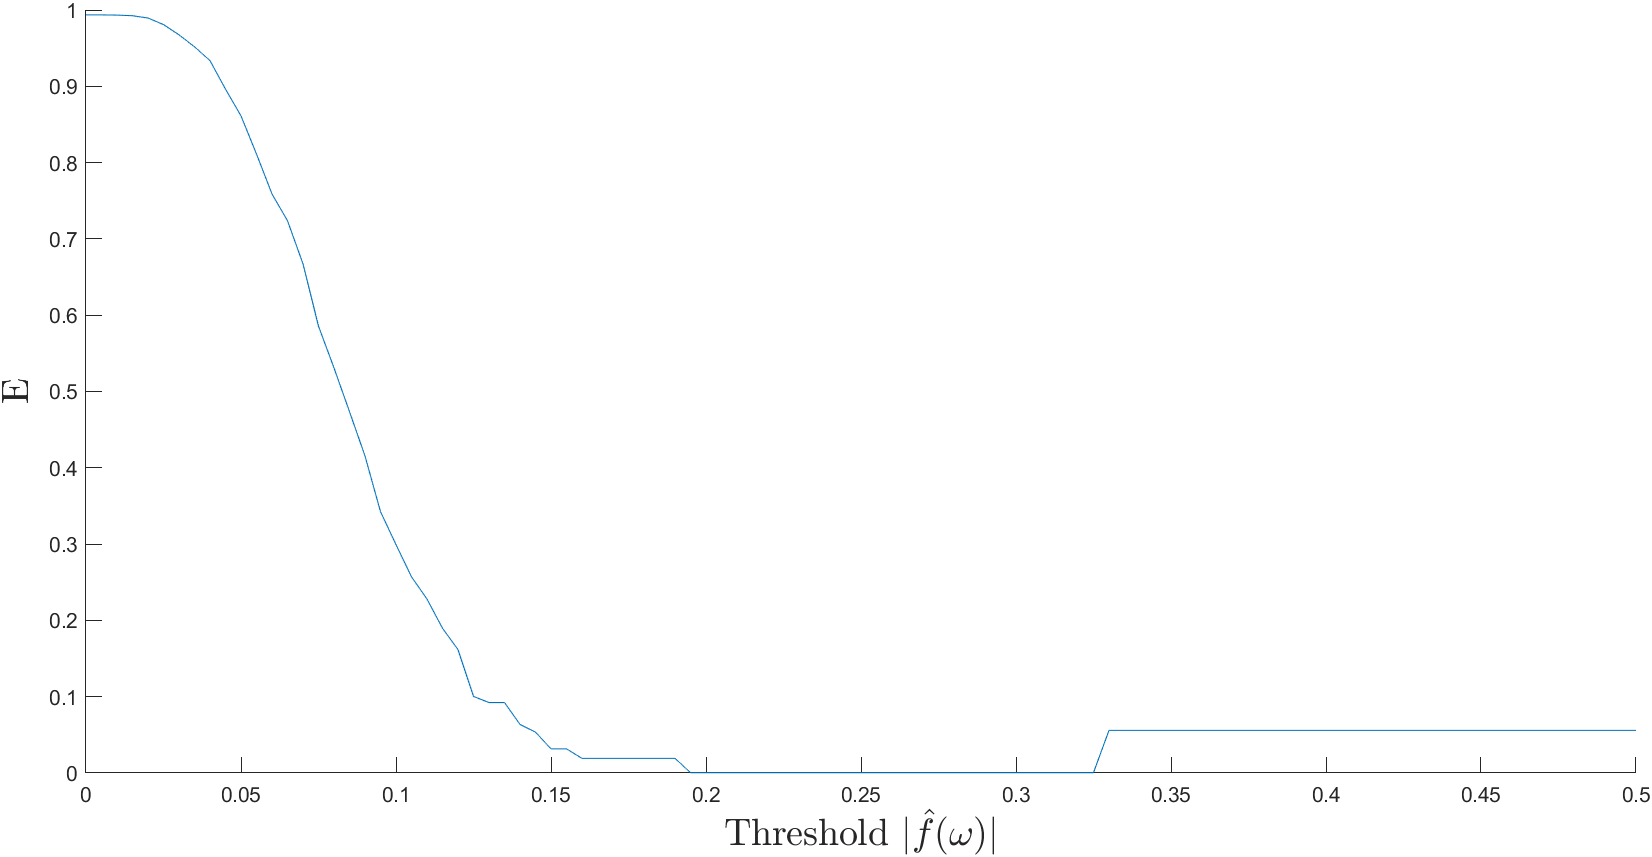
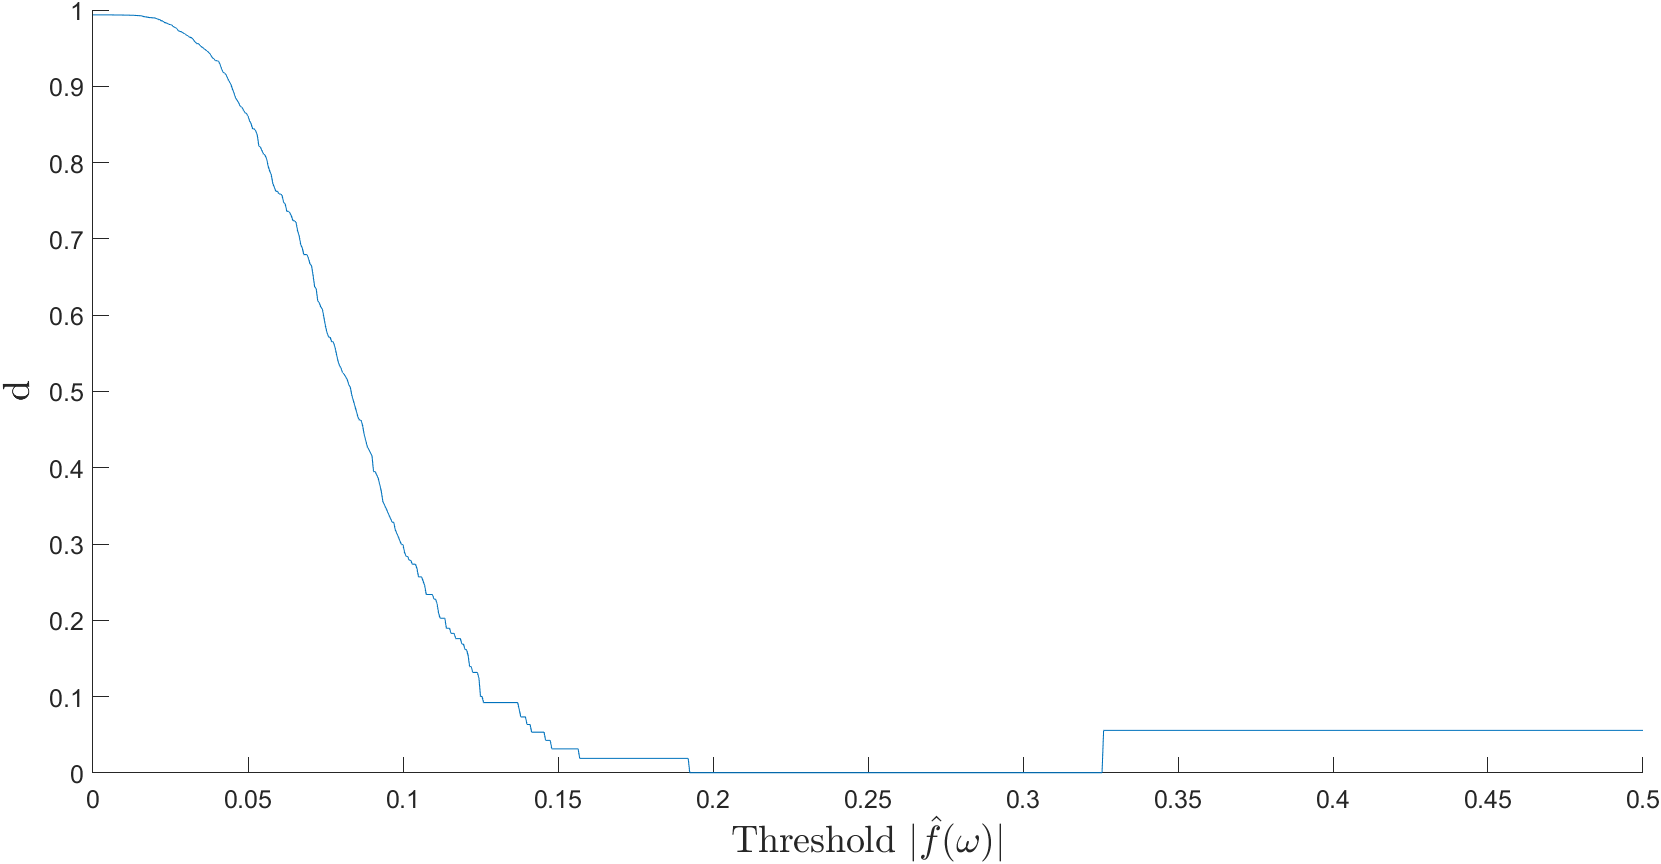
Kuvien korjailuu

diff --git a/main.m b/main.m
@@ -7,6 +7,7 @@ X = data1_X;
 c = fft(X)
 plot_amplitude_spectrum(c);
 [X_f,c_new] = filterNoiseFrequencyThreshold(X,50);
+
 figure
 plot_amplitude_spectrum(c_new);
 figure
@@ -15,7 +16,7 @@ hold on
 plot(data1_f)
 hold off
 
-1/1000^2*sum((abs(c)-abs(c_new)).^2)
+1/1000^2*sum((abs(c)-abs(c_new))).^2
 
 
 
@@ -25,17 +26,45 @@ close all
 clc
 clearvars
 load data.mat
+fontsize = 18;
+tick_size = 12;
 X = data2_X;
 c = fft(X);
-plot_amplitude_spectrum(c);
-[X_f,c_new] = filterNoiseFrequencyThreshold(X,8);
+plot_amplitude_spectrum(c,1000);
+hold on
+plot([7,7],[0,2],'r','LineWidth',2)
+ax = gca;
+ax.FontSize = tick_size;
+xlabel("$$\omega$$(Hz)","interpreter","latex","FontSize",fontsize)
+ylabel("$$|\hat{f}(\omega)|$$","Interpreter","latex","FontSize",fontsize)
+hold off
+[X_f,c_new] = filterNoiseFrequencyThreshold(X,6);
 figure
 plot_amplitude_spectrum(c_new);
 figure
-plot(X_f)
+t = data2_t
+plot(t,X_f)
 hold on
-plot(data2_f)
+plot(t,data2_f)
 hold off
+ax = gca;
+ax.FontSize = tick_size;
+xlabel("$$t(s)$$","Interpreter","latex","FontSize",fontsize)
+ylabel("Amplitude","Interpreter","latex","FontSize",fontsize)
+
+figure
+
+figure
+plot(t,X)
+hold on
+plot(t,X_f,'r','LineWidth',2)
+hold off
+ax = gca;
+ax.FontSize = tick_size;
+xlabel("$$t(s)$$","Interpreter","latex","FontSize",fontsize)
+ylabel("Amplitude","Interpreter","latex","FontSize",fontsize)
+
+
 
 1/1000^2*sum((abs(c)-abs(c_new)).^2)
 
@@ -48,13 +77,17 @@ clc
 clearvars
 load data.mat
 fontsize = 18
+tick_size = 12
 % DATA 1
 X = data1_X;
 t = data1_t
 c = fft(X);
 plot_amplitude_spectrum(c,1000);
-xlabel("$$\omega(Hz)$$","interpreter","latex","FontSize",fontsize)
+ax = gca;
+ax.FontSize = tick_size;
+xlabel("$$\omega$$(Hz)","interpreter","latex","FontSize",fontsize)
 ylabel("$$|\hat{f}(\omega)|$$","Interpreter","latex","FontSize",fontsize)
+
 hold on 
 plot([0,500],[0.20,0.20],'r','LineWidth',2)
 hold off
@@ -68,8 +101,11 @@ plot(t,X_f,'LineWidth',2)
 
 hold off
 
+ax = gca;
+ax.FontSize = tick_size;
 xlabel("$$t(s)$$","Interpreter","latex","FontSize",fontsize)
 ylabel("Amplitude","Interpreter","latex","FontSize",fontsize)
+
 
 
 figure
@@ -77,8 +113,11 @@ plot(t,data1_f,'LineWidth',0.5)
 hold on
 plot(t,X_f,'r','LineWidth',0.5)
 hold off
+ax = gca;
+ax.FontSize = tick_size;
 xlabel("$$t(s)$$","Interpreter","latex","FontSize",fontsize)
 ylabel("Amplitude","Interpreter","latex","FontSize",fontsize)
+
 
 c_orig = fft(data1_f);
 d1 = 1/1000^2*sum((abs(c_orig)-abs(c_new)).^2)
@@ -114,18 +153,36 @@ clc
 clearvars
 load data.mat
 
+fontsize = 18;
+tick_size = 12;
+
 X = data2_X;
 t = data2_t
 c = fft(X);
 plot_amplitude_spectrum(c);
-[X_f,c_new] = filterNoiseScale(X,0.010);
+[X_f,c_new] = filterNoiseScale(X,0.011);
 figure
 plot_amplitude_spectrum(c_new);
 figure
-plot(X_f)
+t = data2_t
+plot(t,X_f)
 hold on
-plot(data2_f)
+plot(t,data2_f)
 hold off
+ax = gca;
+ax.FontSize = tick_size;
+xlabel("$$t(s)$$","Interpreter","latex","FontSize",fontsize)
+ylabel("Amplitude","Interpreter","latex","FontSize",fontsize)
+
+figure
+plot(t,X)
+hold on
+plot(t,X_f,'r','LineWidth',2)
+hold off
+ax = gca;
+ax.FontSize = tick_size;
+xlabel("$$t(s)$$","Interpreter","latex","FontSize",fontsize)
+ylabel("Amplitude","Interpreter","latex","FontSize",fontsize)
 
 c_orig = fft(data2_f);
 d2 = 1/1000^2*sum((abs(c_orig)-abs(c_new)).^2)

diff --git a/DifferentN.m b/DifferentN.m
@@ -3,11 +3,11 @@ close all
 clc
 clearvars
 load data.mat
+tick_size = 12
 
-
-X = data2_X;
+X = data1_X;
 c = fft(X)
-c_orig = fft(data2_f);
+c_orig = fft(data1_f);
 
 threshold = [0:0.001:1];
 eT = [];
@@ -20,17 +20,21 @@ for ii = [1:length(threshold)]
 end
 
 
-plot(threshold,abs(1-eT))
+%plot(threshold,abs(1-eT))
 hold on
 plot(threshold./2,diff)
 hold off
+ax = gca;
+ax.FontSize = tick_size;
 xlabel("Threshold $|\hat{f}(\omega)|$","interpreter","latex","FontSize",18)
-ylabel("E","interpreter","latex","FontSize",18)
+ylabel("d","interpreter","latex","FontSize",18)
 %% Frequency threshold
 close all
 clc
 clearvars
 load data.mat
+fontsize = 18
+tick_size = 12
 
 
 X = data2_X;
@@ -47,10 +51,14 @@ for ii = N
    diff(ii) = 1/1000^2*sum((abs(c_orig)-abs(c_new)).^2);
 end
 
-plot(N,abs(1-eT))
+%plot(N,abs(1-eT))
 hold on
-plot(N,diff)
+plot([1:1:100],diff)
 hold off
+ax = gca;
+ax.FontSize = tick_size;
+xlabel("Frequency cut off (Hz)","Interpreter","latex","FontSize",fontsize)
+ylabel("d","Interpreter","latex","FontSize",fontsize)
 
 
 %% Scale method
@@ -59,7 +67,8 @@ close all
 clc
 clearvars
 load data.mat
-
+tick_size = 12
+fontsize = 18
 
 X = data2_X;
 c = fft(X)
@@ -75,8 +84,13 @@ for ii = [1:length(omega)]
    diff(ii) = 1/1000^2*sum((abs(c_orig)-abs(c_new)).^2);
 end
 
-plot(omega,abs(1-eT))
+%(omega,abs(1-eT))
 hold on
 plot(omega,diff)
 hold off
+ax = gca;
+ax.FontSize = tick_size;
+xlabel("$$\gamma$$","Interpreter","latex","FontSize",fontsize)
+ylabel("d","Interpreter","latex","FontSize",fontsize)
+
 

diff --git a/create_data.m b/create_data.m
@@ -1,7 +1,7 @@
 close all
 rng(222)
 fontsize = 17
-
+tick_size = 12
 %% DATASET 1
 %close all
 N1 = 1000
@@ -10,6 +10,8 @@ omega1 = 19
 omega2 = 29
 f = 1/3*sin(omega1*2*pi*t)+1/2*cos(omega2*2*pi*t)
 h1 = plot(t,f)
+ax = gca;
+ax.FontSize = tick_size;
 xlabel("t($$s$$)","Interpreter","latex","FontSize",fontsize)
 ylabel("Amplitude","Interpreter","latex","FontSize",fontsize)
 
@@ -21,8 +23,11 @@ e = randn(1,N1);
 X = f+e;
 figure
 h3 = plot(t,X);
+ax = gca;
+ax.FontSize = tick_size;
 xlabel("$$t(s)$$","Interpreter","latex","FontSize",fontsize)
 ylabel("Amplitude","Interpreter","latex","FontSize",fontsize)
+
 figure
 [c,omega] = plot_amplitude_spectrum(fft(X),1000)
 data1_X = X;
@@ -35,8 +40,11 @@ N2 = 1000
 t = linspace(0,1,N2);
 f = -70*t.^4+120*t.^3-60*t.^2+12*t;
 plot(t,f)
+ax = gca;
+ax.FontSize = tick_size;
 xlabel("$$t(s)$$","Interpreter","latex","FontSize",fontsize)
 ylabel("Amplitude","Interpreter","latex","FontSize",fontsize)
+
 figure
 [c,omega]=plot_amplitude_spectrum(fft(f),1000);
 plot(omega,c)
@@ -46,8 +54,11 @@ e = randn(1,N2);
 X = f+e;
 figure
 h3 = plot(t,X);
+ax = gca;
+ax.FontSize = tick_size;
 xlabel("$$t(s)$$","Interpreter","latex","FontSize",fontsize)
 ylabel("Amplitude","Interpreter","latex","FontSize",fontsize)
+
 figure
 [c,omega] = plot_amplitude_spectrum(fft(X),1000,true);
 h4 = plot(omega,c);

diff --git a/methodVisualization.m b/methodVisualization.m
@@ -1,21 +1,23 @@
 %% Amplitude
 close all
-fontsize = 17
+fontsize = 18
+tick_size = 12
 
 t = [0:0.001:1]
 f = sin(50*2*pi*t)+3*cos(87*2*pi*t)+2*sin(221*2*pi*t);
 e = 3*randn(1,1001);
 plot(f+e)
 fig = figure
-c = fftshift(fft(c));
+c = fftshift(fft(f+e));
 plot_amplitude_spectrum(fft(f+e),1000)
 hold on
 h = plot([0,500],[0.51,0.51],'LineWidth',2)
+ax = gca;
+ax.FontSize = tick_size;
 xlabel("$$\omega$$","Interpreter","latex","FontSize",fontsize)
 ylabel("$$|\hat{f}(\omega)|$$","Interpreter","latex","FontSize",fontsize)
 hold off
-yticklabels({""})
-xticklabels({""})
+
 %%
 close all
 x = [0:0.001:1]
@@ -26,14 +28,14 @@ figure
 plot_amplitude_spectrum(fft(f+e))
 hold on
 plot([0.042,0.042],[0,0.35],'LineWidth',2)
+ax = gca;
+ax.FontSize = tick_size;
 xlabel("$$\omega$$","Interpreter","latex","FontSize",fontsize)
 ylabel("$$|\hat{f}(\omega)|$$","Interpreter","latex","FontSize",fontsize)
-yticklabels({""})
-xticklabels({""})
+
 
 %% WHITE NOISE SPECTRUM
 
-plot(
 
 
 %% SIN AND COS 
@@ -42,7 +44,9 @@ x = linspace(0,1,1000);
 f = sin(27*2*pi*x)+2*cos(57*2*pi*x)+3*sin(97*2*pi*x);
 plot(f)
 plot_amplitude_spectrum(fft(f),1000)
+ax = gca;
+ax.FontSize = tick_size;
 xlabel("$$\omega$$","Interpreter","latex","FontSize",fontsize)
 ylabel("$$|\hat{f}(\omega)|$$","Interpreter","latex","FontSize",fontsize)
-yticklabels({""})
+
 
